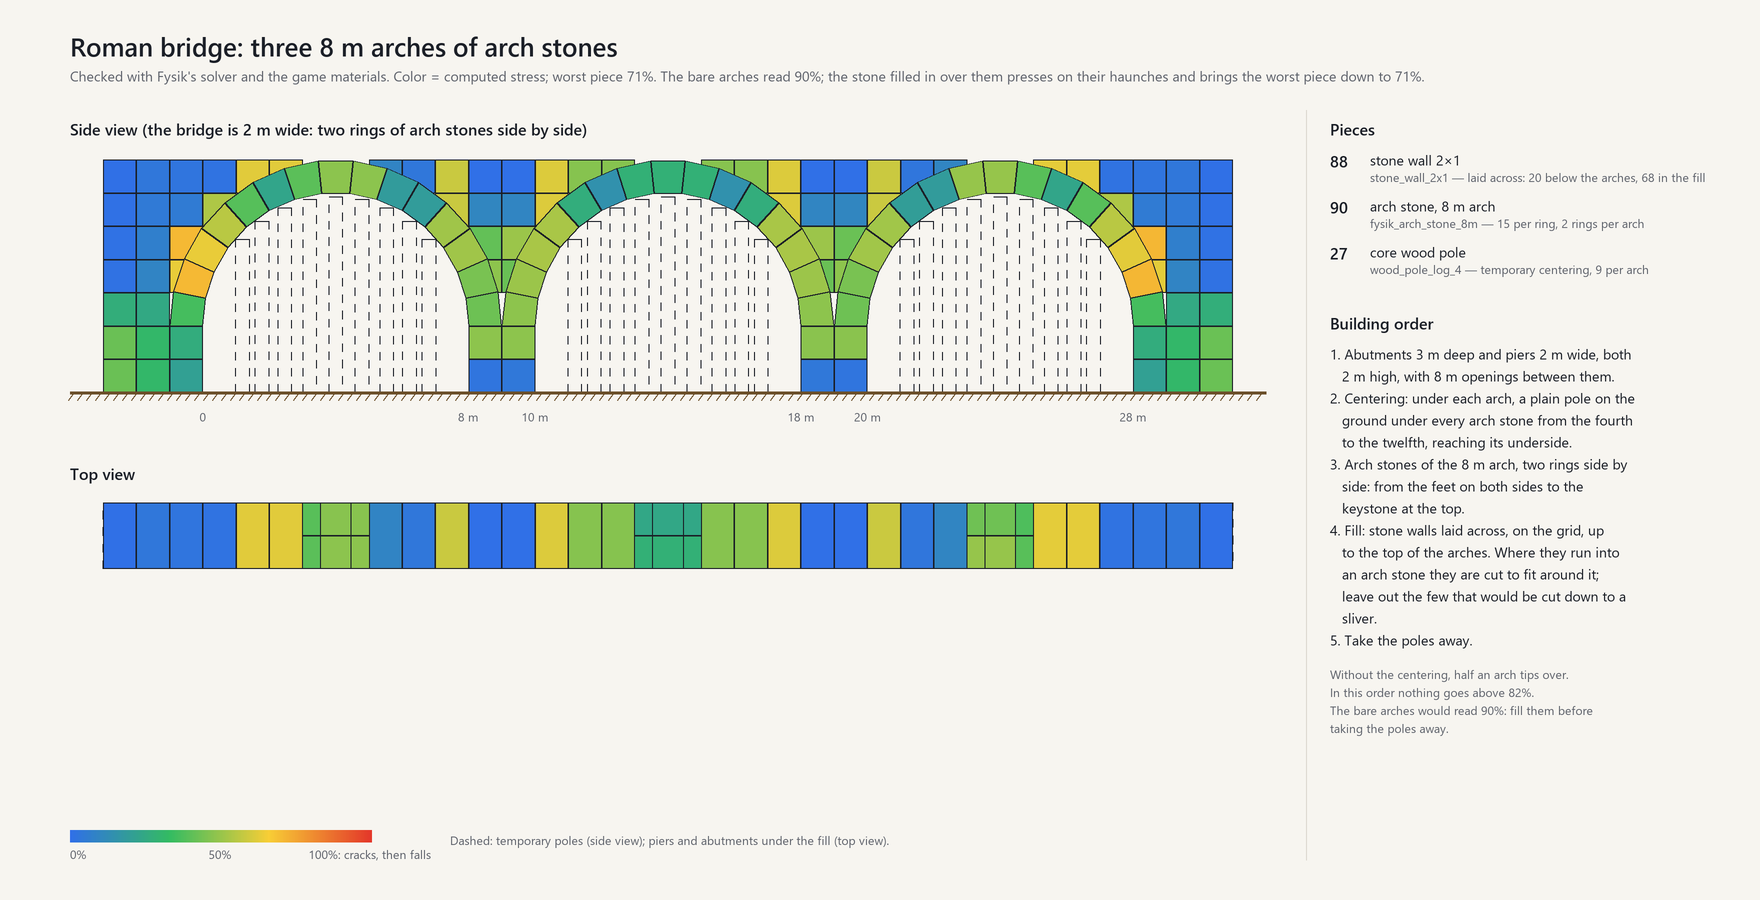
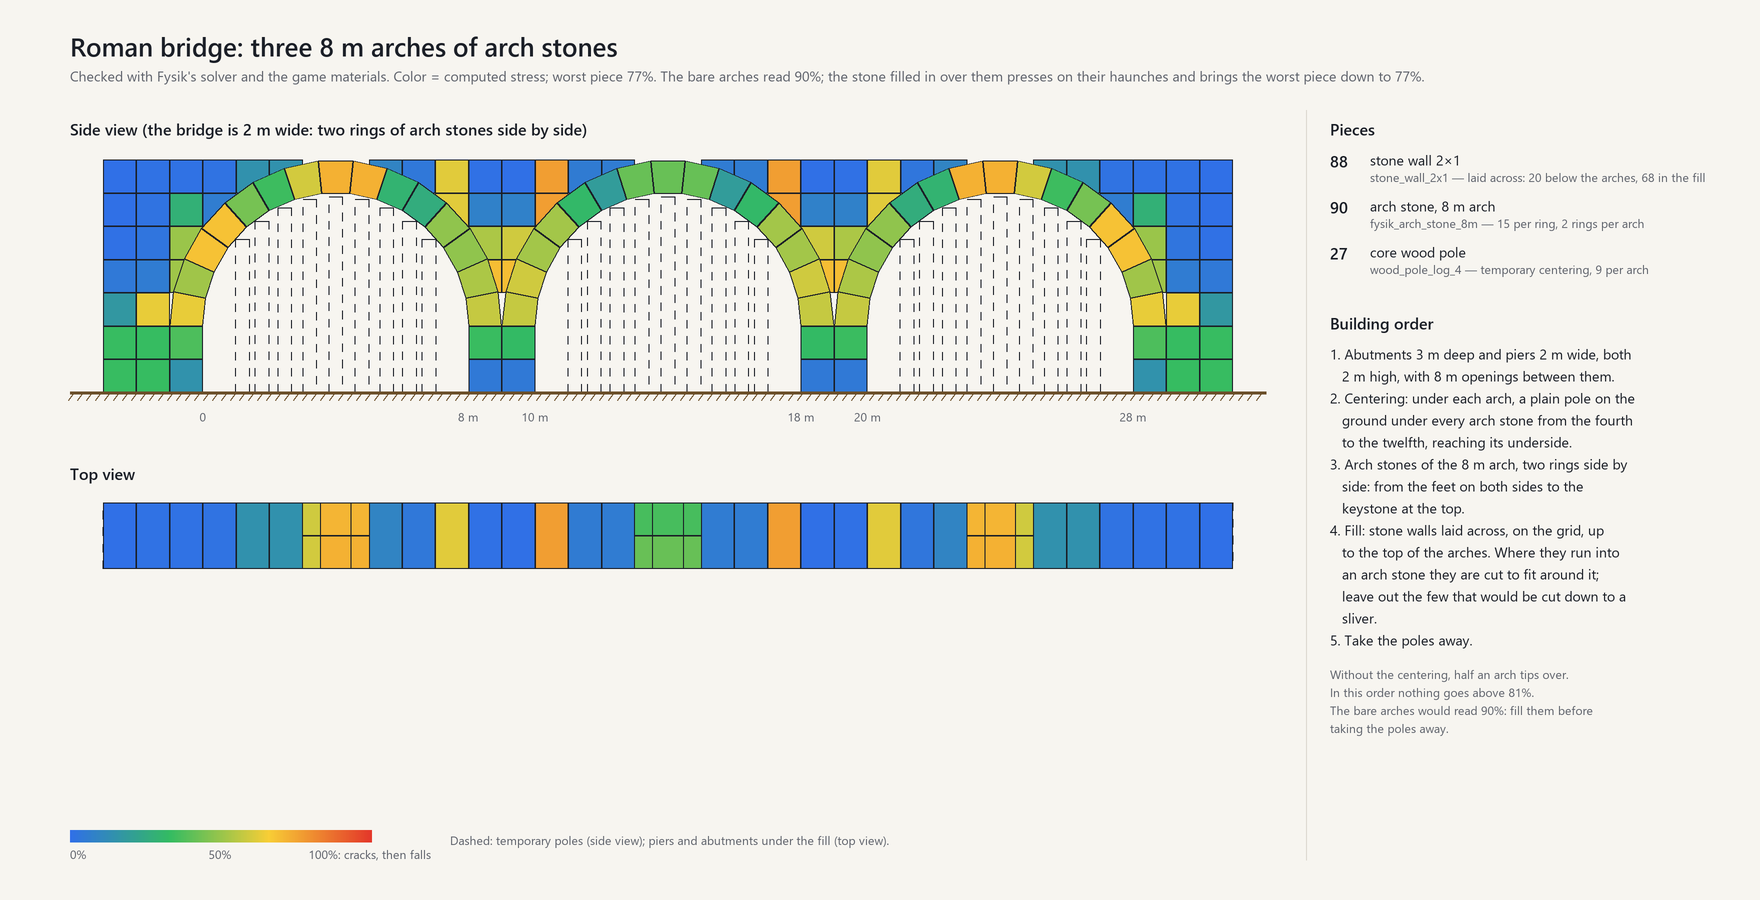
Add a castle to the building guide and update the guide's numbers

diff --git a/docs/wiki/05-building-guide.md b/docs/wiki/05-building-guide.md
@@ -157,10 +157,20 @@ but reads higher on the hammer than the wider ones.
 
 A lighthouse 8 m across and 24 m high: tower stones with a 1 m wall up to 12 m, thin ones above,
 a doorway one stone wide under a lintel of core wood logs, and two wooden platforms on joists laid
-into the wall. Its worst stone, beside the door, reads 36%, and nothing goes above 54% while it is
+into the wall. Its worst stone, beside the door, reads 35%, and nothing goes above 53% while it is
 built.
 
 ![Lighthouse: a round tower of tower stones 8 m across and 24 m high; side view, top view, parts list and building order](https://raw.githubusercontent.com/menezesbruno/Fysik/main/docs/images/guide-lighthouse.png)
+
+A castle: four towers 8 m across and 10 m high, 24 m apart at the corners of a square, joined by
+curtain walls of 2×1 stones 7 m high with merlons, and a gate in the front wall under a 4 m arch of
+arch stones. Every other course of the walls starts with a stone that runs into the tower and is cut
+to fit it, and around the arch every stone is cut to fit, so no gap is left. Worst piece 74%, over
+the small stones cut beside the keystone; away from the gate the walls read up to 71% and the towers
+19%. Build the arch on centering and take the poles away once the keystone is in: the closed arch
+stands on its own (66%), and nothing goes above 75% while the castle is built.
+
+![Castle: four round towers, curtain walls of 2×1 stones and an arched gate; front view, top view, parts list and building order](https://raw.githubusercontent.com/menezesbruno/Fysik/main/docs/images/guide-castle.png)
 
 ## Stone bridges
 
@@ -178,13 +188,13 @@ wedge-shaped stones next to the stone arch in the hammer.
 ![Roman bridge: three 8 m arches of arch stones on 2 m piers; side view, top view, parts list and building order](https://raw.githubusercontent.com/menezesbruno/Fysik/main/docs/images/guide-roman-bridge.png)
 
 - Three 8 m arches of arch stones on piers 2 m wide, two rings side by side, the space above them
-  filled with stone walls that are cut to fit around the arches: worst piece 71%. Leave out the few
+  filled with stone walls that are cut to fit around the arches: worst piece 77%. Leave out the few
   blocks that would be cut down to a sliver.
 - **Build each arch on centering.** Until its keystone is in, half an arch tips over. A plain pole
-  under every arch stone from the fourth to the twelfth holds it: nothing goes above 82% while it is
+  under every arch stone from the fourth to the twelfth holds it: nothing goes above 81% while it is
   built.
 - **Fill before you take the props away.** The bare arches read 90%; the stone over their haunches
-  presses them into shape and brings the bridge down to 71%.
+  presses them into shape and brings the bridge down to 77%.
 
 ## Snow
 

diff --git a/docs/wiki/08-how-it-works.md b/docs/wiki/08-how-it-works.md
@@ -42,7 +42,8 @@ Fysik applies this to every joint between two stone, black marble or grausten pi
 - If some stones can then move freely, they fall (*Unstable*). To tell, Fysik solves once more with
   the open joints ten times softer still: a part that is really held moves the same, a part that is
   loose moves ten times more. Where the stones of a loose part would press into a neighbour as they
-  move, that contact is closed again before deciding, since it would catch them.
+  move, that contact is closed again before deciding, since it would catch them; it can still slip
+  if it is pushed sideways harder than friction holds.
 - The hammer shows, for each stone, how far the force in its worst joint has moved towards the edge
   of the contact (*Tipping*: 0% in the middle, 100% at the edge) and how close the joint is to
   slipping (*Sliding*), when either is higher than the stress inside the stone itself.
@@ -54,8 +55,10 @@ corner to corner along an edge do not hold each other at all.
 
 The arch stones and tower stones are wedges and curved stones, but Fysik solves each as a block of
 the same volume: an arch stone as wide as its middle, a tower stone as long as its arc halfway
-through the wall. A stone wall, block or floor laid into one is cut to fit it, mesh, collider and
-weight; it then rests on the special stone's own face rather than on a block's. Around a tower
+through the wall and no deeper than the chord of its outer face, so that the block never sticks out
+of the curve. A stone wall, block or floor laid into one is cut to fit it, mesh, collider and
+weight; where it reaches into the special stone it rests on that stone's own face rather than on a
+block's, and where it only touches a stone along an edge it does not hold on it. Around a tower
 stone, wooden floors, wall panels and roofs are cut too, while beams, poles and logs stay whole. The
 game saves every turn in half-degree steps, rounded down, so when these stones load they are turned
 back to the angle they were laid at, the same on every player's game.

diff --git a/README.md b/README.md
@@ -69,13 +69,13 @@ are in the [wiki](https://thunderstore.io/c/valheim/p/menezesbruno/Fysik/wiki/) 
 - **Fysik's own pieces:** arch stones (wedges in seven sizes, 4 to 16 m spans), tower stones
   (curved, 22.5°, for towers 4 to 10 m across, in two thicknesses, with half stones) and stone walls
   and floors 0.5 m thick, cloned from the vanilla stones with their meshes reshaped in code. Each
-  special stone is solved as a box of its true volume. Player-built stone blocks overlapping an arch
-  or tower stone, and wooden panels (floors, wall panels, roofs; never beams, poles or logs)
-  overlapping a tower stone, are cut to fit around it (mesh, collider and weight; a cut piece keeps
-  its near level of detail at any distance, as the game's far meshes cannot be read). Arch and tower
-  stones are turned back to their designed angles when they load, since the game saves rotations in
-  half-degree steps. Placement helpers lay the next arch or tower stone along its curve and a thin
-  floor on top of a wall.
+  special stone is solved as a box of its true volume (a tower stone's box stays inside its curve).
+  Player-built stone blocks overlapping an arch or tower stone, and wooden panels (floors, wall
+  panels, roofs; never beams, poles or logs) overlapping a tower stone, are cut to fit around it
+  (mesh, collider and weight; a cut piece keeps its near level of detail at any distance, as the
+  game's far meshes cannot be read). Arch and tower stones are turned back to their designed angles
+  when they load, since the game saves rotations in half-degree steps. Placement helpers lay the
+  next arch or tower stone along its curve and a thin floor on top of a wall.
 - **World buildings:** buildings that come with the world (stone towers, abandoned houses, villages,
   ruins: every piece no player placed) do not get Fysik's physics. They keep vanilla support, are
   shown in neutral grey, and a player build resting on them treats them as fixed ground; only player

diff --git a/CHANGELOG.md b/CHANGELOG.md
@@ -1,5 +1,22 @@
 # Changelog
 
+## 0.2.3: castles
+
+- Walls cut to fit a round tower no longer hang on it. Fysik solves each tower stone as a straight
+  block, and that block's outer face stuck out of the curve by up to 8 cm near the stone's ends: a
+  wall cut to the true curve rested on those corners, so the tower stones and the wall beside them
+  read up to 99%. The block now stays inside the curve, with the stone's full weight, and a cut
+  stone that only touches another stone corner to corner along an edge no longer holds on it, as
+  between any two stones. The guide's castle read 99% in its towers and walls; it now reads 19% and
+  71%.
+- Masonry: a joint that Fysik closes again to stop a loose stone from moving can still slip when it
+  is pushed sideways harder than friction holds. It stayed stuck before, and the stones beside it
+  could read up to 99%.
+- Numbers change a little where stone meets tower stones or stones cut to fit: towers read a few
+  points lower, the guide's lighthouse 35% (was 36%) and its Roman bridge 77% (was 71%).
+- A castle in the building guide: four round towers 24 m apart, curtain walls of 2×1 stones 7 m high
+  with merlons, and a gate under a 4 m arch, every stone around it cut to fit.
+
 ## 0.2.2: thin walls and round towers
 
 - Thin stone walls and floors: the 1x1, 2x1 and 4x2 stone walls and the 2x2 stone floor also come
